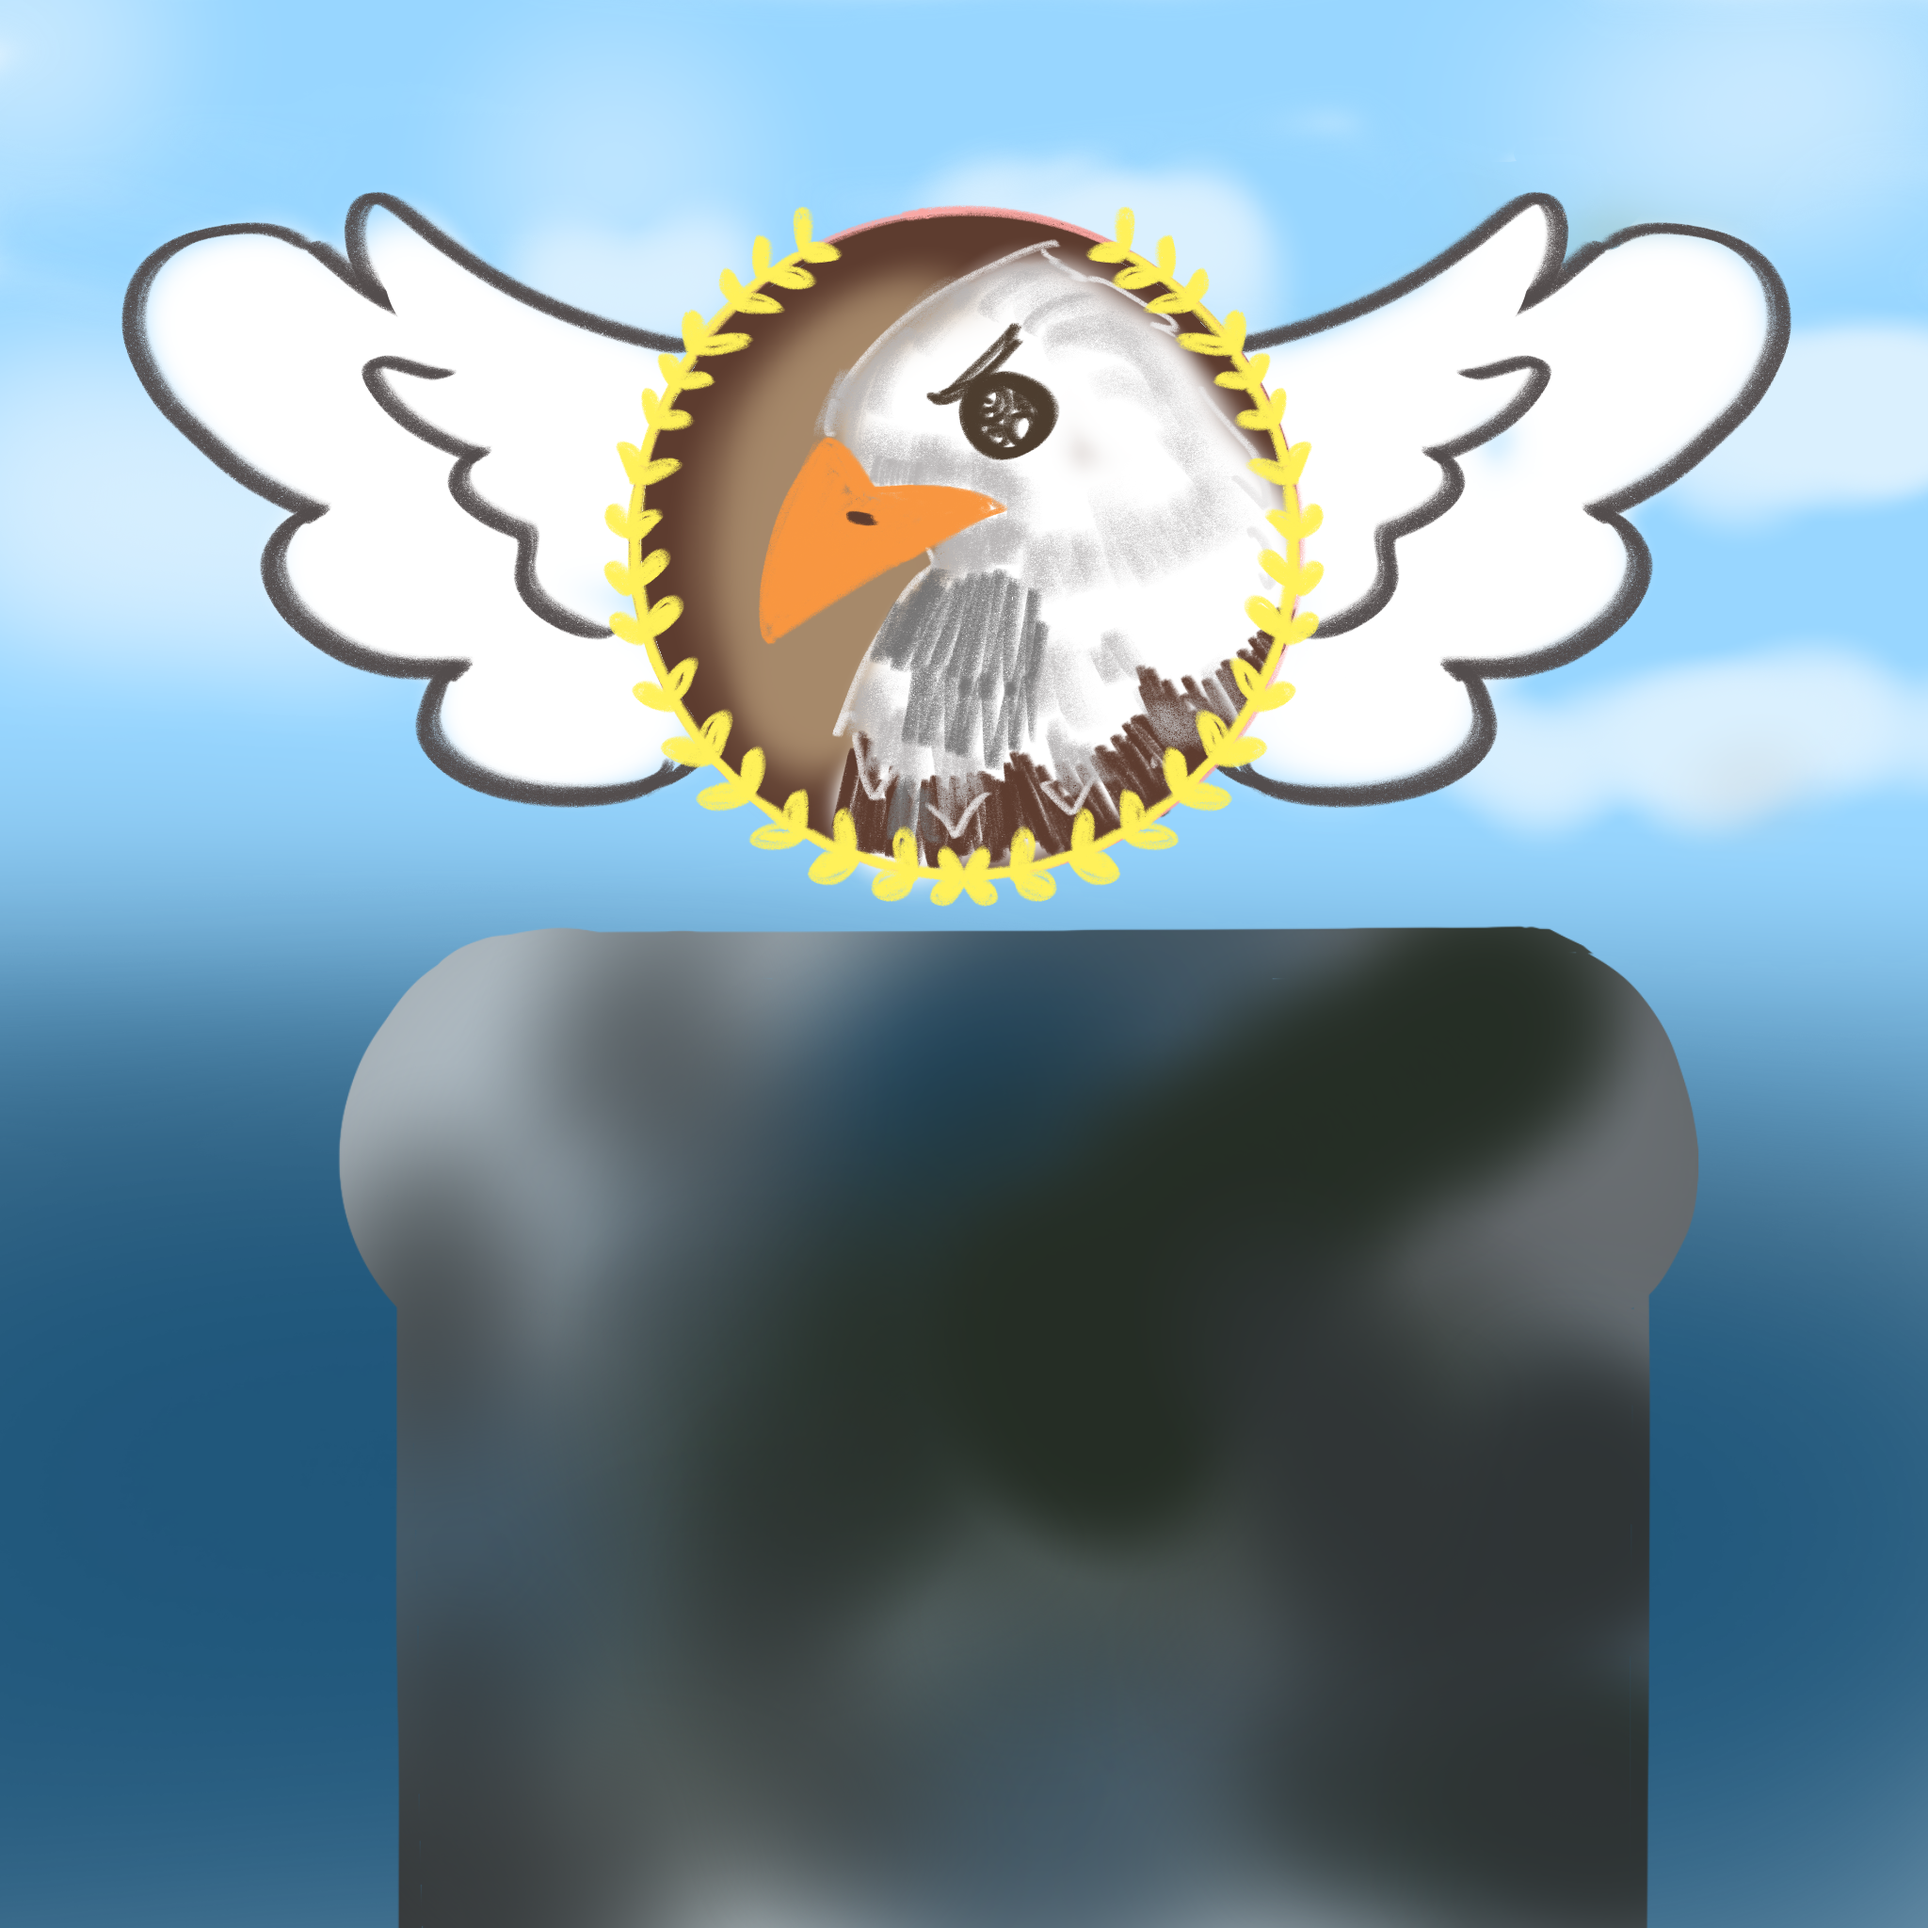
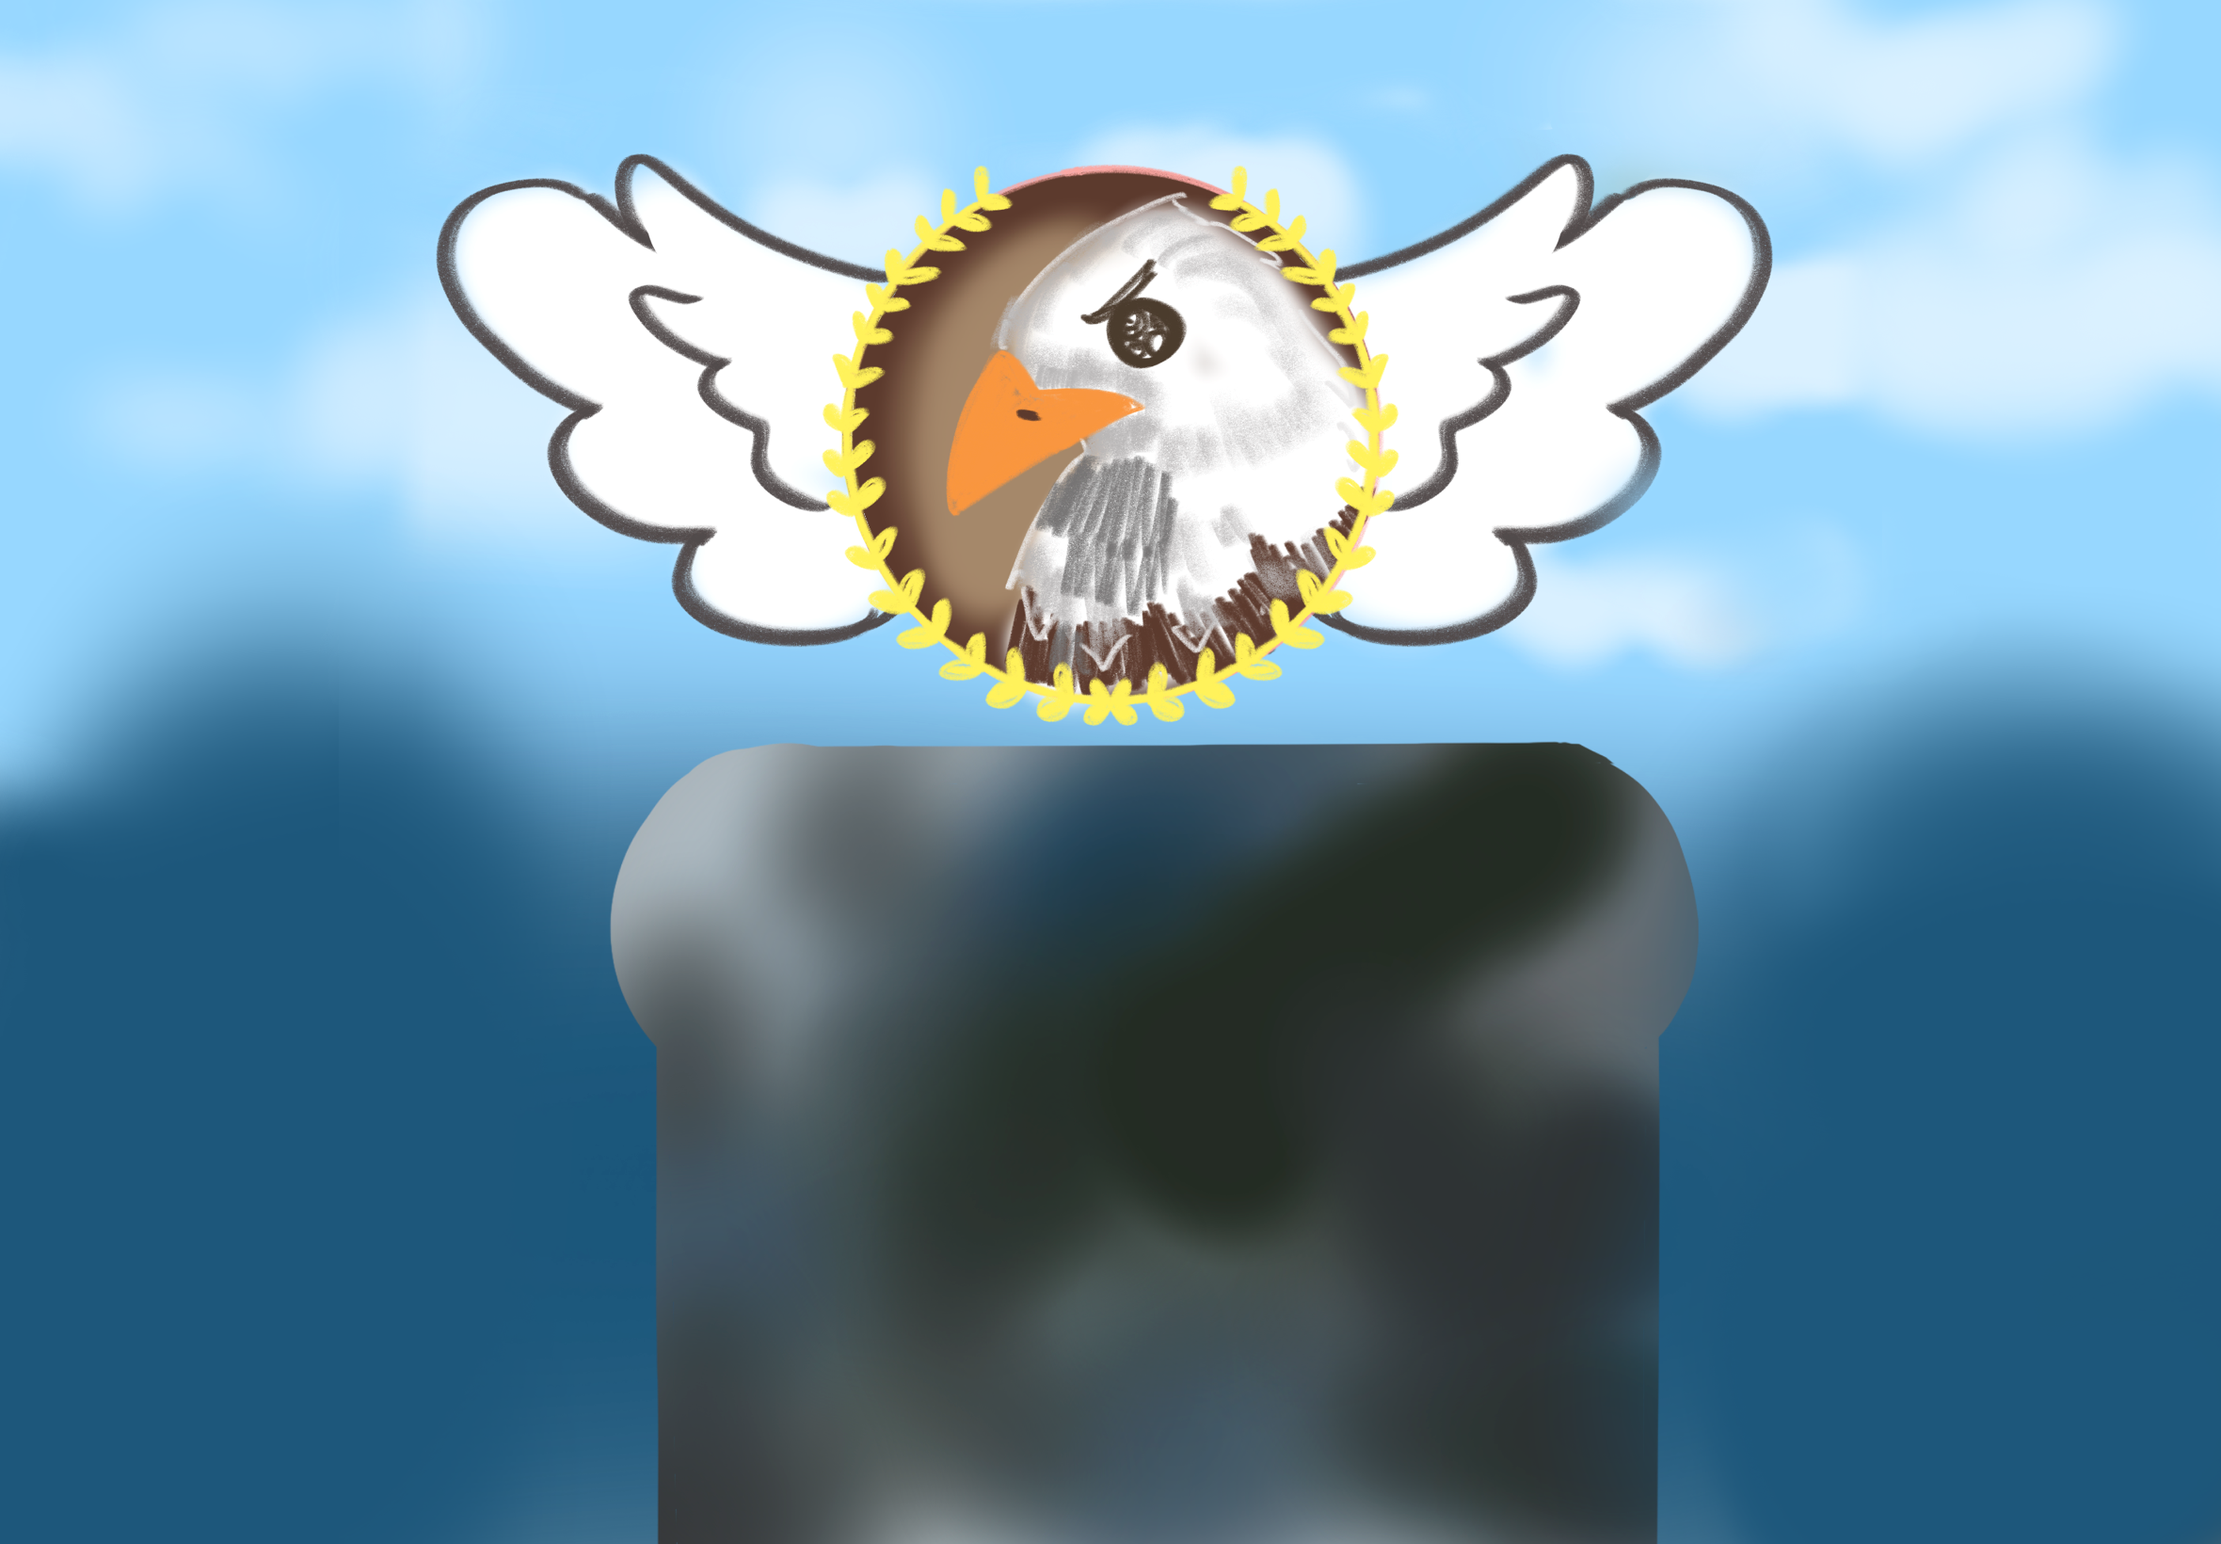
1017

diff --git a/HW2/FAKELOVE.css b/HW2/FAKELOVE.css
@@ -6,7 +6,7 @@
   }
   body {
     background-image: url("BGP.png");
-    background-size: 1200px 800px;
+    background-size:  1640px ;
   }
   /* 頂部 LOGO 區 */
   .top-header {
